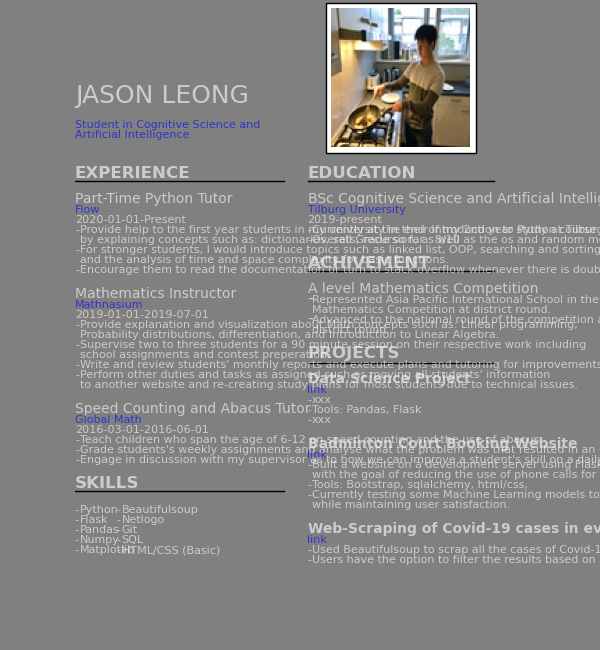
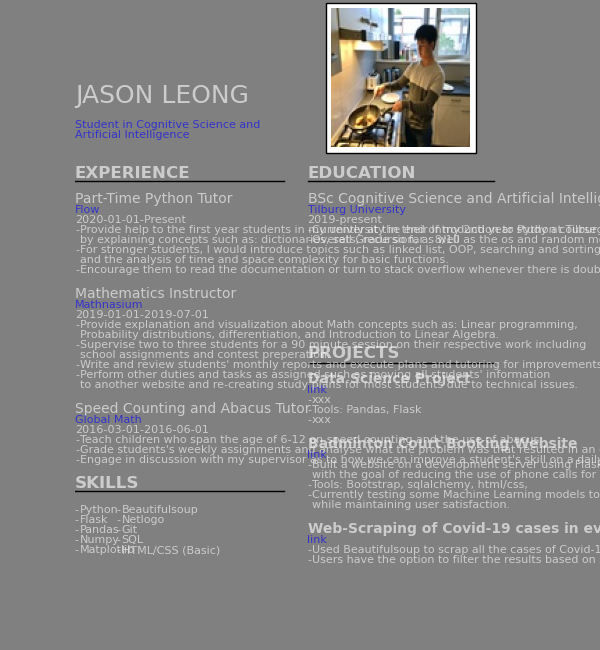
m

Changed region(s): [[0.51, 0.3692, 0.99, 0.5231]]

diff --git a/Matplotlib/Resume/resume_page1.py b/Matplotlib/Resume/resume_page1.py
@@ -14,17 +14,28 @@ Experience_title = 'EXPERIENCE'
 
 Job_1_company_name = 'Mathnasium'
 Job_1_position = 'Mathematics Instructor'
-Job_1_responsibilities = [['Provide explanation and visualization about Math concepts such as: Linear programming,','Probability distributions, differentiation, and Introduction to Linear Algebra.'],['Supervise two to three students for a 90 minute session on their respective work including','school assignments and contest preperation.'], "Write and review students' monthly reports and execute plans and tutoring for improvements.", ["Perform other duties and tasks as assigned such as moving all students' information","to another website and re-creating study plans for most students due to technical issues."]]
+Job_1_responsibilities = [['Provide explanation and visualization about Math concepts such as: Linear programming,',
+                           'Probability distributions, differentiation, and Introduction to Linear Algebra.'],
+                          ['Supervise two to three students for a 90 minute session on their respective work including','school assignments and contest preperation.'],
+                          "Write and review students' monthly reports and execute plans and tutoring for improvements.",
+                          ["Perform other duties and tasks as assigned such as moving all students' information",
+                           "to another website and re-creating study plans for most students due to technical issues."]]
 Job_1_duration = '2019-01-01-2019-07-01'
 
 Job_2_company_name = "Global Math"
 Job_2_position = "Speed Counting and Abacus Tutor"
-Job_2_responsibilities = ['Teach children who span the age of 6-12 on speed counting and the use of abacus.', "Grade students's weekly assignments and analyse what the problem was that resulted in an error.", "Engage in discussion with my supervisor as to how we can improve a student's skill on a daily basis."]
+Job_2_responsibilities = ['Teach children who span the age of 6-12 on speed counting and the use of abacus.',
+                          "Grade students's weekly assignments and analyse what the problem was that resulted in an error.",
+                          "Engage in discussion with my supervisor as to how we can improve a student's skill on a daily basis."]
 Job_2_duration = '2016-03-01-2016-06-01'
 
 Job_3_company_name = 'Flow'
 Job_3_position = 'Part-Time Python Tutor'
-Job_3_responsibilities = [["Provide help to the first year students in my university in their Introduction to Python course", "by explaining concepts such as: dictionaries, sets, recursion, as well as the os and random module."], ["For stronger students, I would introduce topics such as linked list, OOP, searching and sorting,", "and the analysis of time and space complexity for basic functions."], ["Encourage them to read the documentation or turn to stack overflow whenever there is doubts."]]
+Job_3_responsibilities = [["Provide help to the first year students in my university in their Introduction to Python course",
+                           "by explaining concepts such as: dictionaries, sets, recursion, as well as the os and random module."],
+                          ["For stronger students, I would introduce topics such as linked list, OOP, searching and sorting,",
+                           "and the analysis of time and space complexity for basic functions."],
+                          ["Encourage them to read the documentation or turn to stack overflow whenever there is doubts."]]
 Job_3_duration = '2020-01-01-Present'
 
 Skills_Title = 'SKILLS'
@@ -47,7 +58,11 @@ E_Description = ['Currently at the end of my 2nd year study at Tilburg Universit
 Projects_Title = 'PROJECTS'
 Project_Names = ['Data Science Project', 'Badminton Court Booking Website', 'Web-Scraping of Covid-19 cases in every state of Malaysia']
 Project_Links = ['link', 'link', 'link']
-Project_Descriptions = [["xxx", "Tools: Pandas, Flask ", "xxx"], [['Built a website on a development server using Flask','with the goal of reducing the use of phone calls for a reservation.'], 'Tools: Bootstrap, sqlalchemy, html/css, ', ['Currently testing some Machine Learning models to maximise revenue','while maintaining user satisfaction.']], ['Used Beautifulsoup to scrap all the cases of Covid-19 in my home country.', 'Users have the option to filter the results based on states and order.']]
+Project_Descriptions = [["xxx", "Tools: Pandas, Flask ", "xxx"], [['Built a website on a development server using Flask',
+                    'with the goal of reducing the use of phone calls for a reservation.'], 'Tools: Bootstrap, sqlalchemy, html/css, ',
+                  ['Currently testing some Machine Learning models to maximise revenue','while maintaining user satisfaction.']],
+                    ['Used Beautifulsoup to scrap all the cases of Covid-19 in my home country.',
+                     'Users have the option to filter the results based on states and order.']]
 
 Contact_Title = 'Contact Me'
 Contact_ID = ['Email: ', 'Phone: ', 'LinkedIN: ']
@@ -56,13 +71,15 @@ Contact = ['leongjason3781@gmail.com', '+60123292658', 'https://www.linkedin.com
 
 Extra_Title = 'Find Me Online'
 Extra_ID = ['GitHub: ','Facebook: ','Instagram: ','Discord: ','Kaggle: ']
-Extra = ['https://github.com/JasonLeong81','https://www.facebook.com/JasonLeong81/','https://www.instagram.com/Jason_Leong_81/','https://discord.com/users/Jasonn#0350','https://www.kaggle.com/jasonleongchoryew']
+Extra = ['https://github.com/JasonLeong81','https://www.facebook.com/JasonLeong81/','https://www.instagram.com/Jason_Leong_81/',
+         'https://discord.com/users/Jasonn#0350','https://www.kaggle.com/jasonleongchoryew']
 
 x_line_width_right_min = 0.5
 x_line_width_right_max = 0.9
 x_line_width_left_min = 0
 x_line_width_left_max = 0.45
 
+BREAK = 39
 ### Begin Coding :) ####################################################################################################
 
 def resume_page_1():
@@ -140,17 +157,17 @@ def resume_page_1():
 
     # Achivement
 
-    plt.annotate(Achivement_Title , (0.5,0.62), weight='bold', fontsize=12, alpha=.6,color='white')
-
-    plt.axhline(y=.615, xmin=x_line_width_right_min, xmax=x_line_width_right_max, color='black', linewidth=1)
-
-    plt.annotate(Achivements[0] , (0.5,0.57), weight='regular', fontsize=10, alpha=.6,color='white')
-    plt.annotate("- " , (0.5,0.55), weight='regular', fontsize=12, alpha=.6,color='white')
-    plt.annotate(A_Description[0][0] , (0.51,0.55), weight='regular', fontsize=8, alpha=.6,color='white')
-    plt.annotate(A_Description[0][1] , (0.51,0.53), weight='regular', fontsize=8, alpha=.6,color='white')
-    plt.annotate("- " , (0.5,0.51), weight='regular', fontsize=12, alpha=.6,color='white')
-    plt.annotate(A_Description[1][0] , (0.51,0.51), weight='regular', fontsize=8, alpha=.6,color='white')
-    plt.annotate(A_Description[1][1], (0.51, 0.49), weight='regular', fontsize=8, alpha=.6, color='white')
+    # plt.annotate(Achivement_Title , (0.5,0.62), weight='bold', fontsize=12, alpha=.6,color='white')
+    #
+    # plt.axhline(y=.615, xmin=x_line_width_right_min, xmax=x_line_width_right_max, color='black', linewidth=1)
+    #
+    # plt.annotate(Achivements[0] , (0.5,0.57), weight='regular', fontsize=10, alpha=.6,color='white')
+    # plt.annotate("- " , (0.5,0.55), weight='regular', fontsize=12, alpha=.6,color='white')
+    # plt.annotate(A_Description[0][0] , (0.51,0.55), weight='regular', fontsize=8, alpha=.6,color='white')
+    # plt.annotate(A_Description[0][1] , (0.51,0.53), weight='regular', fontsize=8, alpha=.6,color='white')
+    # plt.annotate("- " , (0.5,0.51), weight='regular', fontsize=12, alpha=.6,color='white')
+    # plt.annotate(A_Description[1][0] , (0.51,0.51), weight='regular', fontsize=8, alpha=.6,color='white')
+    # plt.annotate(A_Description[1][1], (0.51, 0.49), weight='regular', fontsize=8, alpha=.6, color='white')
 
     # Projects
 

diff --git a/Matplotlib/Resume/test.py b/Matplotlib/Resume/test.py
@@ -17,10 +17,63 @@ ax.set_facecolor('grey')
 plt.axis('off')
 
 
-plt.show()
+# plt.show()
 
 # In digital signal processing, spatial anti-aliasing is a technique for minimizing the distortion artifacts known as aliasing when representing a high-resolution image at a lower resolution.
 
+Job_1_responsibilities = [['Provide explanation and visualization about Math concepts such as: Linear programming, Probability distributions, differentiation, and Introduction to Linear Algebra.'],
+                          ['Supervise two to three students for a 90 minute session on their respective work including school assignments and contest preperation.'],
+                          ["Write and review students' monthly reports and execute plans and tutoring for improvements."],
+                          ["Perform other duties and tasks as assigned such as moving all students' information to another website and re-creating study plans for most students due to technical issues."]]
 
+Job_2_responsibilities = [['Teach children who span the age of 6-12 on speed counting and the use of abacus.'],
+                          ["Grade students's weekly assignments and analyse what the problem was that resulted in an error."],
+                          ["Engage in discussion with my supervisor as to how we can improve a student's skill on a daily basis."]]
 
+Job_3_responsibilities = [["Provide help to the first year students in my university in their Introduction to Python course by explaining concepts such as: dictionaries, sets, recursion, as well as the os and random module."],
+                          ["For stronger students, I would introduce topics such as linked list, OOP, searching and sorting, and the analysis of time and space complexity for basic functions."],
+                          ["Encourage them to read the documentation or turn to stack overflow whenever there is doubts."]]
 
+Project_Descriptions = [["xxx", "Tools: Pandas, Flask ", "xxx"],
+                        ['Built a website on a development server using Flask with the goal of reducing the use of phone calls for a reservation.',
+                    'Tools: Bootstrap, sqlalchemy, html/css, ', 'Currently testing some Machine Learning models to maximise revenue while maintaining user satisfaction.'],
+                    ['Used Beautifulsoup to scrap all the cases of Covid-19 in my home country.','Users have the option to filter the results based on states and order.']
+                        ]
+
+def xxx(x):
+    b = 39
+    # split strings that are longer than b to 2 or more elements inside the current list so that it fits in the resume
+    # example [['0123456789'],['01234567']] -> [['01234','56789'],['01234','567']] when b is 5
+    for i in range(len(x)):
+        for j in range(len(x[i])):
+                if len(x[i][j]) > b:
+                    temp = len(x[i][j])
+                    start = 0
+                    end = b
+                    for _ in range(int(temp/b)):
+                        x[i].append(x[i][j][start:end])
+                        start += b
+                        end += b
+                    if len(x[i][j][start:]) > 0:
+                        x[i].append(x[i][j][start:])
+                    x[i].remove(x[i][j]) # cannot remove
+                    # x[i][j] = 'None'
+                    # return l2
+    return x
+x = [['0123456789'], ['01234567']]
+# print(xxx(x))
+# print(xxx(x)==[['01234','56789'],['01234','567']])
+# c = xxx(Job_1_responsibilities)
+# for i in c:
+#     print(len(i),i)
+for i in Job_1_responsibilities:
+    print(i[0])
+print()
+for i in Job_3_responsibilities:
+    print(i[0])
+print()
+for i in Job_2_responsibilities:
+    print(i[0])
+print()
+for i in Project_Descriptions:
+    print(i[0])
